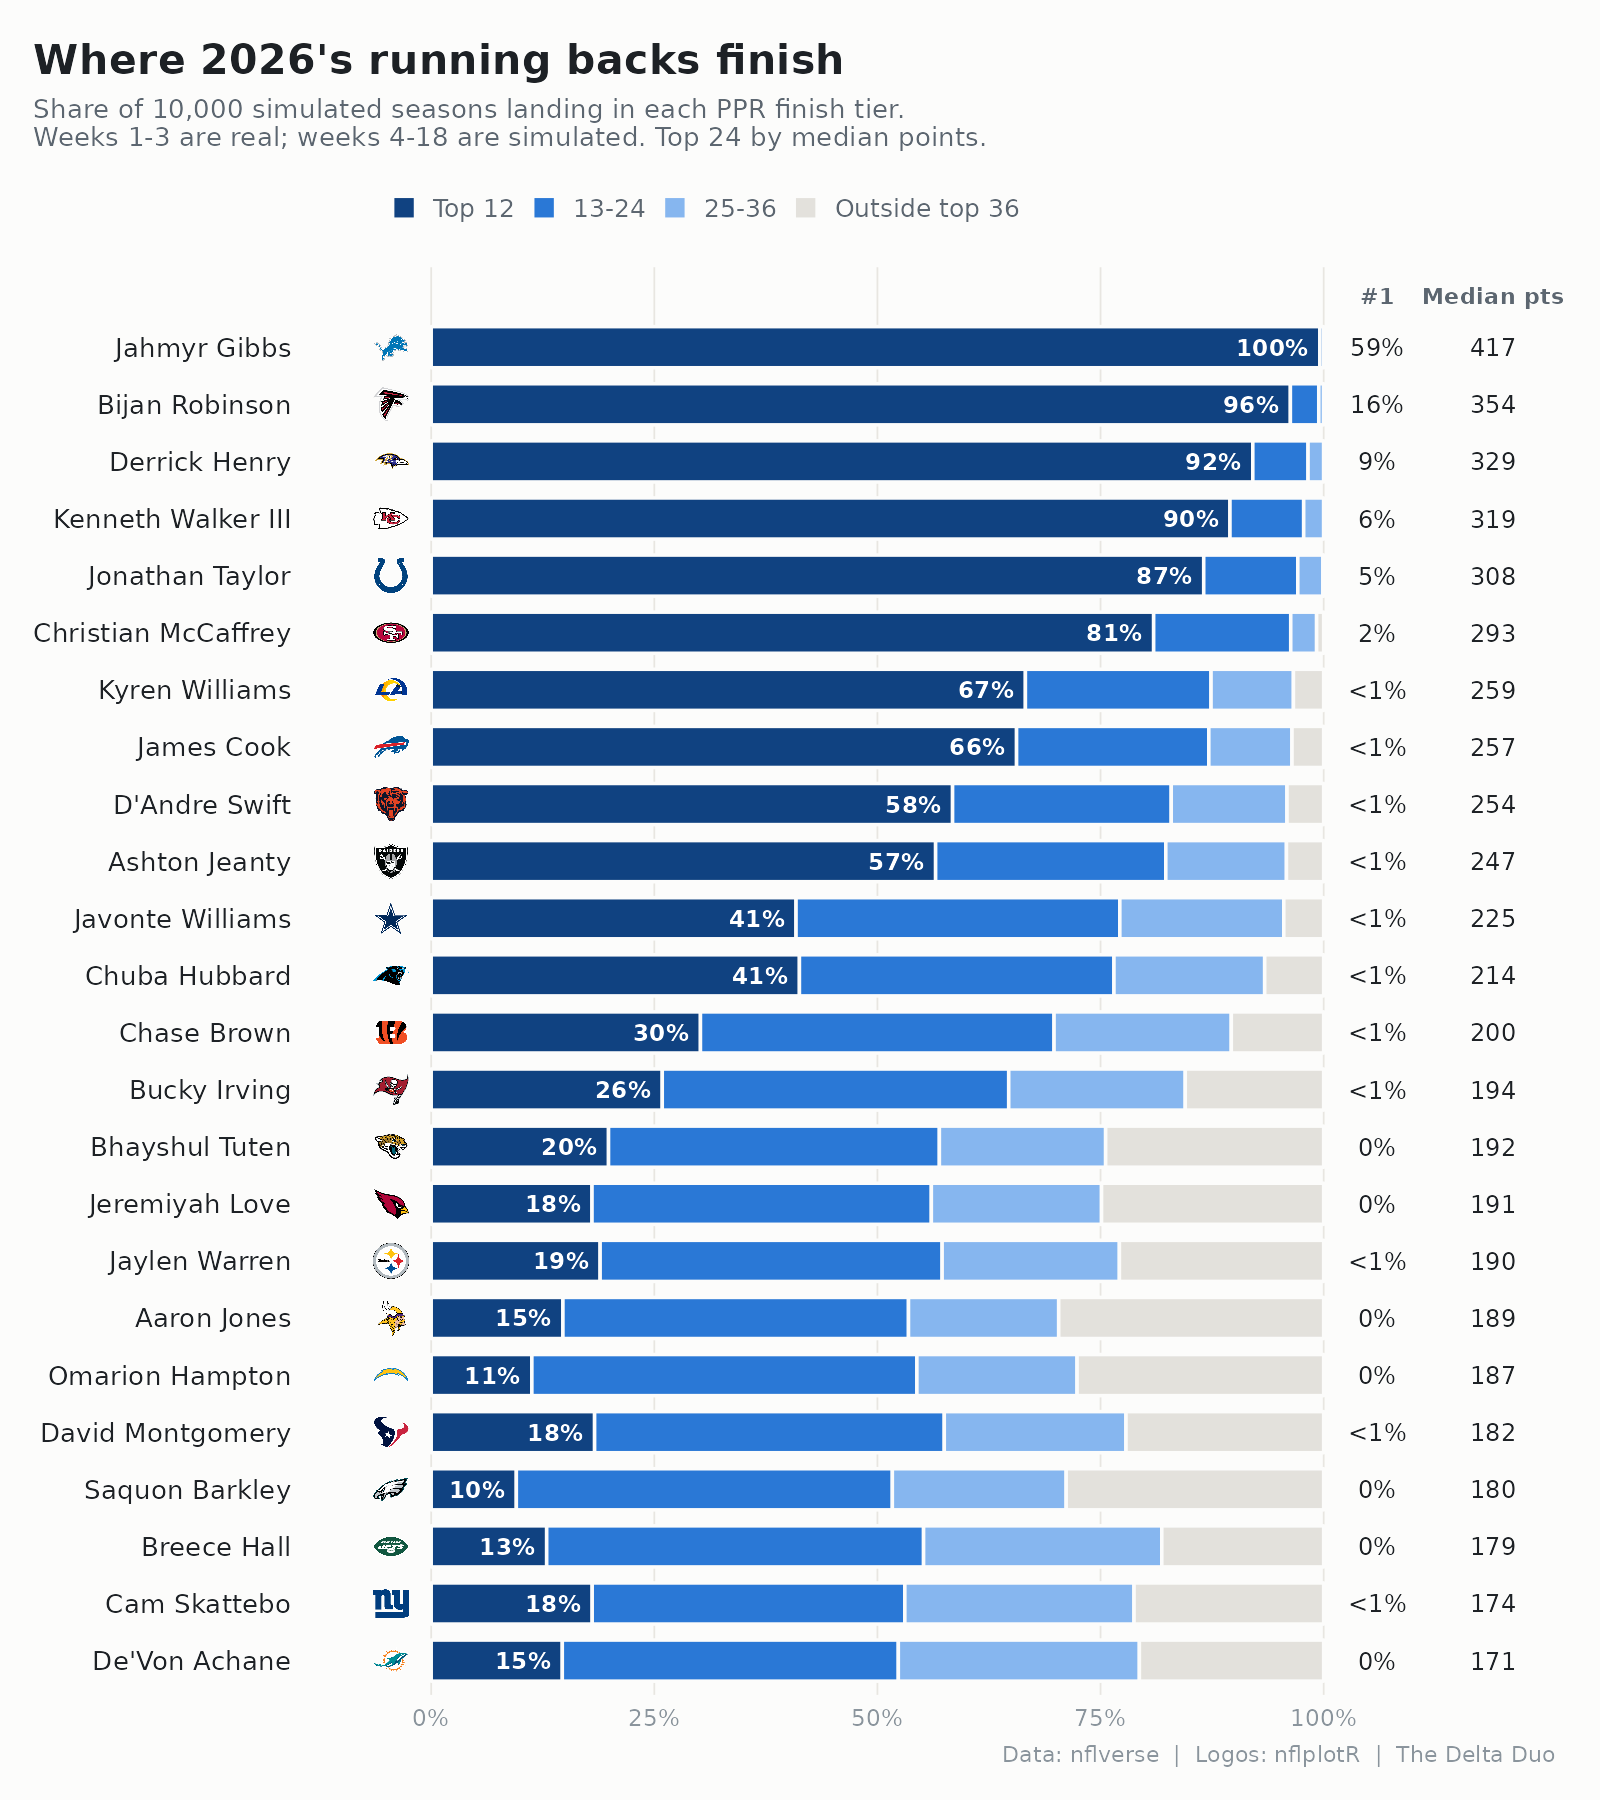
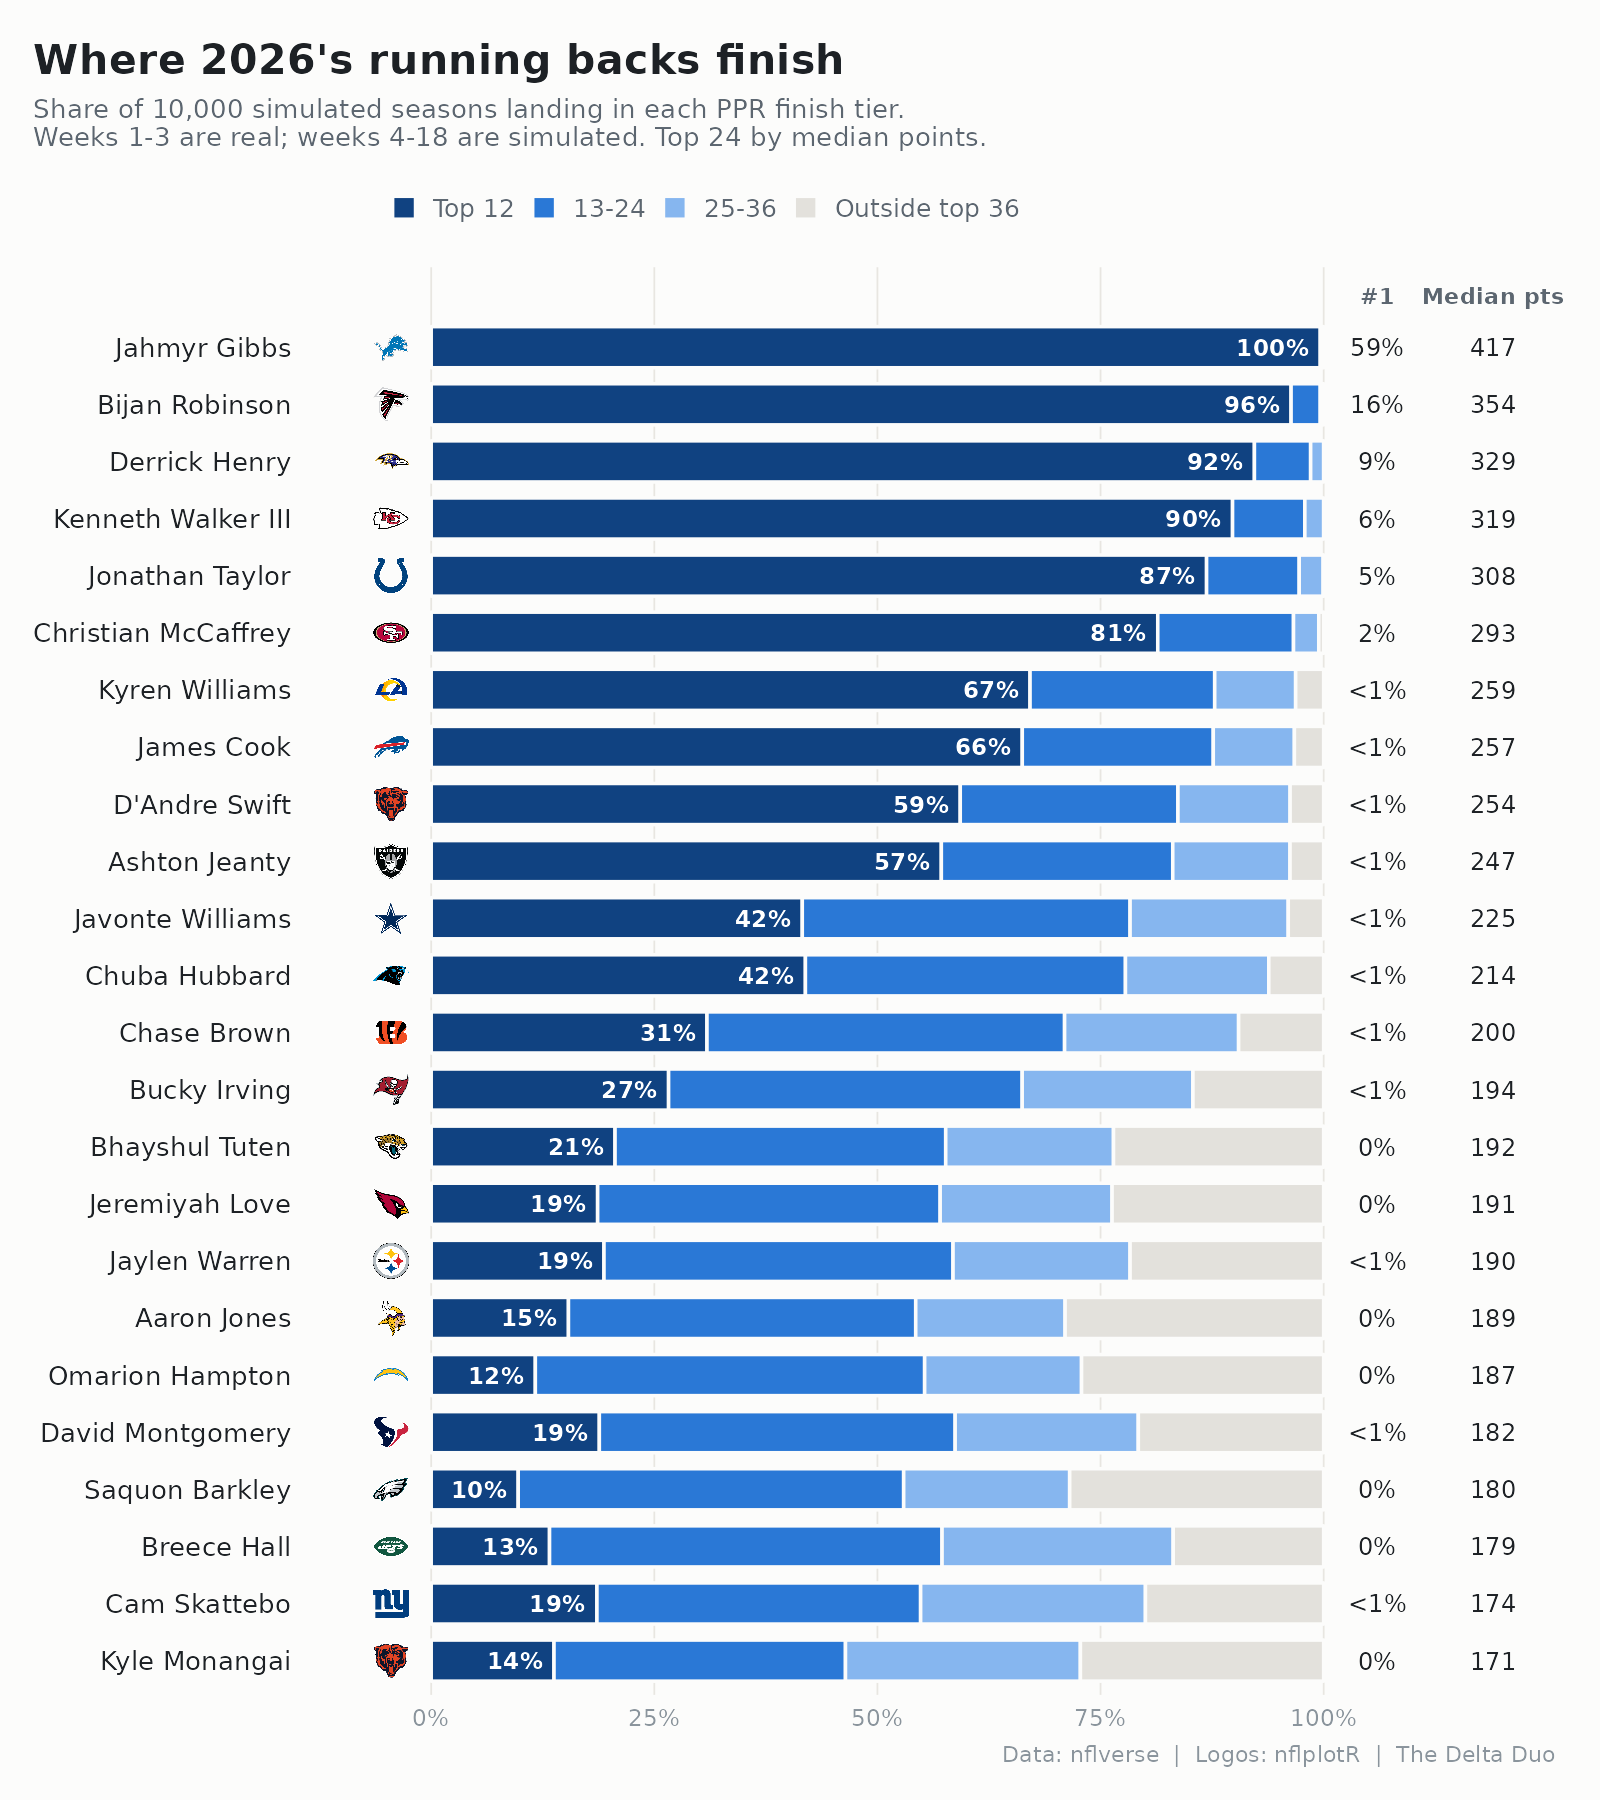
Add De'Von Achane (out for the season) to injury overrides
Claude-Session: https://claude.ai/code/session_01UZE7ET1nLWKGZYnH3gzTiB

diff --git a/analysis/fantasy-sim/README.md b/analysis/fantasy-sim/README.md
@@ -78,7 +78,7 @@ General injury risk is already built in (the backtest counts missed games as zer
 A specific injury is not, so enter it by hand: `player,team,out_min,out_max,note`.
 Each simulated season draws a whole number of missed games between `out_min` and
 `out_max` (inclusive, equally likely) and those games score zero. Names must match
-nflverse exactly; `sim.py` warns if one doesn't. Remove the row once he's back.
+nflverse exactly; `sim.py` warns if one doesn't. Remove the row once he's back. For a season-ending injury set both to his team's games left.
 
 Currently:
 
@@ -86,6 +86,7 @@ Currently:
 |---|---|--:|--:|
 | Breece Hall (NYJ) | 1-3 games (quad, week 3; did not practice week 4) | RB19 -> RB23 | 66% -> 55% |
 | Travis Etienne (NO) | 1-3 games | RB23 -> RB28 | 53% -> 38% |
+| De'Von Achane (MIA) | rest of season (14 games) | RB24 -> RB81 | 52% -> 0% |
 
 ## Caveats
 
@@ -126,20 +127,20 @@ Currently:
 | Player | Tm | Pts wk 1–3 | Median total (10th–90th) | Median finish | #1 | Top 12 | Top 24 | Top 36 |
 |---|---|--:|--:|--:|--:|--:|--:|--:|
 | Jahmyr Gibbs | DET | 98.3 | 417 (331–495) | 1 | 59% | 100% | 100% | 100% |
-| Bijan Robinson | ATL | 77.7 | 354 (264–435) | 3 | 16% | 96% | 99% | 100% |
-| Derrick Henry | BAL | 74.9 | 329 (239–411) | 4 | 9% | 92% | 98% | 100% |
+| Bijan Robinson | ATL | 77.7 | 354 (264–435) | 3 | 16% | 96% | 100% | 100% |
+| Derrick Henry | BAL | 74.9 | 329 (239–411) | 4 | 9% | 92% | 99% | 100% |
 | Kenneth Walker III | KC | 79.2 | 319 (236–400) | 5 | 6% | 90% | 98% | 100% |
 | Jonathan Taylor | IND | 63.5 | 308 (217–389) | 5 | 5% | 87% | 97% | 100% |
-| Christian McCaffrey | SF | 58.0 | 293 (208–373) | 6 | 2% | 81% | 96% | 99% |
-| James Cook | BUF | 50.2 | 257 (150–339) | 9 | 1% | 66% | 87% | 96% |
-| Kyren Williams | LA | 53.0 | 259 (144–323) | 9 | 0% | 67% | 87% | 97% |
-| D'Andre Swift | CHI | 56.1 | 254 (140–319) | 11 | 1% | 58% | 83% | 96% |
-| Ashton Jeanty | LV | 55.3 | 247 (138–297) | 11 | <1% | 57% | 82% | 96% |
-| Javonte Williams | DAL | 50.5 | 225 (145–278) | 15 | <1% | 41% | 77% | 96% |
-| Chuba Hubbard | CAR | 53.1 | 214 (132–279) | 15 | <1% | 41% | 76% | 93% |
-| Chase Brown | CIN | 38.9 | 200 (111–264) | 18 | <1% | 30% | 70% | 90% |
-| Bucky Irving | TB | 41.1 | 194 (91–279) | 19 | <1% | 26% | 65% | 84% |
-| Bhayshul Tuten | JAX | 41.0 | 192 (84–266) | 21 | <1% | 20% | 57% | 76% |
+| Christian McCaffrey | SF | 58.0 | 293 (208–373) | 6 | 2% | 81% | 97% | 99% |
+| James Cook | BUF | 50.2 | 257 (150–339) | 9 | 1% | 66% | 88% | 97% |
+| Kyren Williams | LA | 53.0 | 259 (144–323) | 9 | 0% | 67% | 88% | 97% |
+| D'Andre Swift | CHI | 56.1 | 254 (140–319) | 11 | 1% | 59% | 84% | 96% |
+| Ashton Jeanty | LV | 55.3 | 247 (138–297) | 11 | <1% | 57% | 83% | 96% |
+| Javonte Williams | DAL | 50.5 | 225 (145–278) | 14 | <1% | 42% | 78% | 96% |
+| Chuba Hubbard | CAR | 53.1 | 214 (132–279) | 14 | <1% | 42% | 78% | 94% |
+| Chase Brown | CIN | 38.9 | 200 (111–264) | 17 | <1% | 31% | 71% | 90% |
+| Bucky Irving | TB | 41.1 | 194 (91–279) | 19 | <1% | 27% | 66% | 85% |
+| Bhayshul Tuten | JAX | 41.0 | 192 (84–266) | 21 | <1% | 21% | 58% | 76% |
 
 **WR**
 
